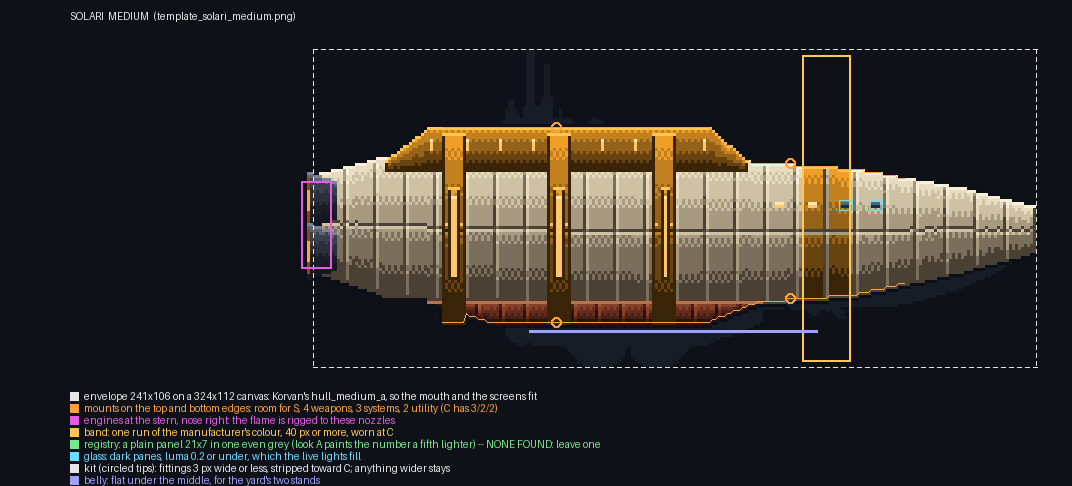
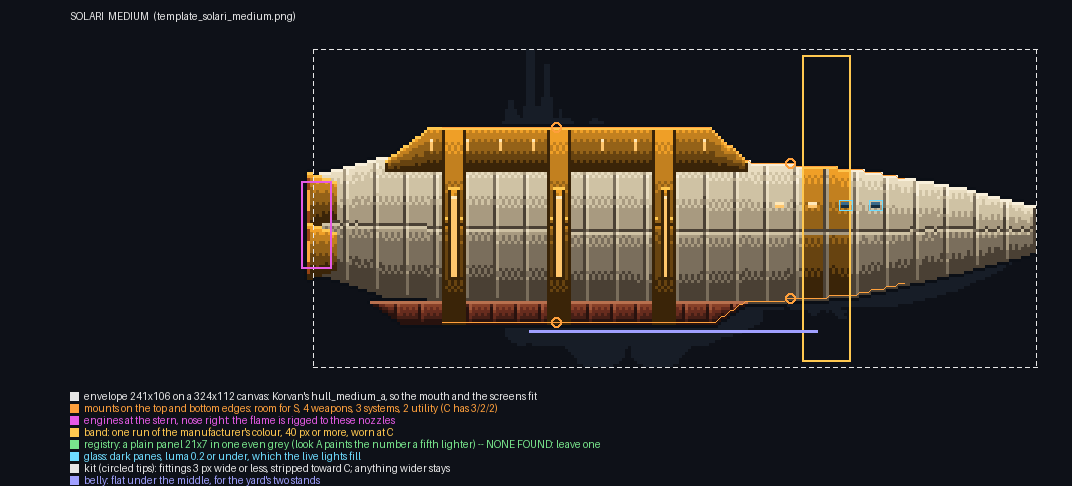
Hull templates: Solari's brass lines up (rings from the crest's top to the keel's bottom, keel under every ring), brass nose and bells
Claude-Session: https://claude.ai/code/session_01FQemMvme1wfvjCSMpMkDgS

diff --git a/tkg/art/tools/hull_template.py b/tkg/art/tools/hull_template.py
@@ -131,14 +131,16 @@ def P(shape, mat='steel', **kw):
     return d
 
 
-def rings(x0, x1, top, bot, n):
+def rings(x0, x1, top, bot, n, low=None):
     """Solari's reactor rings: n brass hoops clamped round the hull between x0
     and x1, standing proud of it, a hot seam glowing down each (Jon, Oct 15:
     "I just don't like the middle circles", then look A of three)."""
     out = []
     for i in range(n):
         cx = x0 + (x1 - x0) * (i + .5) / n
-        out.append(P(('rect', cx - .014, top - .07, cx + .014, bot + .05), 'acc', rivets=True, belt=.5))
+        # The hoops run from the crest's top to `low`, the keel's bottom, so
+        # the brass has one top line and the ship one bottom line (Jon, Oct 15: "the bottom of the ship should be aligned").
+        out.append(P(('rect', cx - .014, top - .09, cx + .014, low if low is not None else bot + .05), 'acc', rivets=True, belt=.5))
         out.append(P(('rect', cx - .005, top + .1, cx + .005, bot - .1), 'acc', ports=[(.1, 0, 1, 1, 2, 30, 1)]))
     return out
 
@@ -158,22 +160,22 @@ SPECS = {
      P(('prof', [(.44, .47, .65), (.8, .51, .61), (1, .55, .57)]), 'tile', seams=12, rivets=False, band=(.62, .70)),
      P(('prof', [(.04, .40, .72), (.18, .34, .82), (.38, .35, .82), (.50, .40, .74), (.60, .45, .68)]), 'tile', seams=8, rivets=False, belt=.55,
        ports=[(.32, .45, .9, 3, 3, 2, 1)], hatch=[(.6, .6, .85, .85)]),
-     P(('poly', [(.12, .80), (.40, .80), (.35, .87), (.17, .87)]), 'brick', seams=6)] + crest(.12, .44, .34, 6) + rings(.12, .44, .34, .84, 3),
+     P(('poly', [(.08, .80), (.48, .80), (.44, .87), (.12, .87)]), 'brick', seams=6)] + crest(.12, .44, .34, 6) + rings(.12, .44, .34, .84, 3, low=.87),
    'kit': [],
-   'noz': [(.50, .12), (.68, .12)]},
+   'noz': [(.50, .12), (.68, .12)], 'noz_mat': 'acc'},
   'medium': {'parts': [
      P(('prof', [(0, .40, .70), (.1, .34, .78), (.5, .34, .82), (.75, .38, .78), (.9, .44, .70), (1, .50, .64)]), 'tile', seams=10,
        rivets=False, belt=.48, ports=[(.3, .62, .8, 4, 3, 2, 2)], band=(.68, .74)),
-     P(('poly', [(.16, .80), (.62, .80), (.55, .87), (.24, .87)]), 'brick', seams=8)] + crest(.12, .56, .34, 9) + rings(.12, .56, .34, .82, 3),
+     P(('poly', [(.08, .80), (.60, .80), (.56, .87), (.12, .87)]), 'brick', seams=8)] + crest(.12, .56, .34, 9) + rings(.12, .56, .34, .82, 3, low=.87),
    'kit': [],
-   'noz': [(.48, .12), (.64, .12)]},
+   'noz': [(.48, .12), (.64, .12)], 'noz_mat': 'acc'},
   'heavy': {'parts': [
      P(('prof', [(0, .40, .74), (.08, .34, .84), (.5, .34, .92), (.78, .38, .86), (.9, .44, .76), (1, .56, .66)]), 'tile', seams=12, rivets=False,
        belt=.5, ports=[(.28, .66, .84, 4, 3, 2, 2)], band=(.76, .82), hatch=[(.06, .6, .14, .8)]),
-     P(('poly', [(.18, .90), (.70, .90), (.62, .96), (.28, .96)]), 'brick', seams=8),
-     P(('poly', [(.92, .44), (1, .56), (1, .66), (.92, .70)]), 'gun')] + crest(.26, .62, .34, 9) + rings(.26, .62, .34, .92, 4),
+     P(('poly', [(.22, .90), (.66, .90), (.62, .96), (.26, .96)]), 'brick', seams=8),
+     P(('poly', [(.92, .44), (1, .56), (1, .66), (.92, .70)]), 'acc')] + crest(.26, .62, .34, 9) + rings(.26, .62, .34, .92, 4, low=.96),
    'kit': [],
-   'noz': [(.50, .14), (.72, .14)]},
+   'noz': [(.50, .14), (.72, .14)], 'noz_mat': 'acc'},
  },
  'probate': {
   'light': {'parts': [
